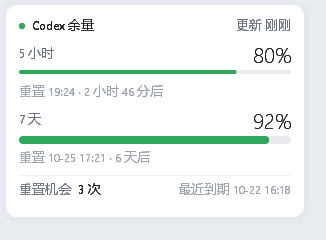
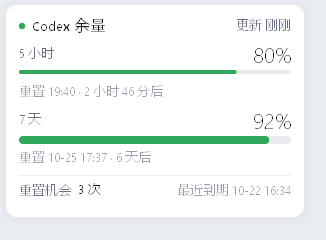
fix: paint text the way a normal Win32 app does
Text used to be drawn white-on-black into a scratch DIB and the brightness
reused as an alpha mask. That flattens every pixel to one coverage value, so
hinting's uneven stems and stair-stepped curves showed through -- the
"over-enlarged bitmap" look.

Now the pixels under a text run are copied into the scratch DIB (un-premultiplied),
GDI composites the glyphs onto them in final colour, and the result is blended
back per channel (per channel, so translucent runs keep their coverage). No
supersampling, no coverage gamma, no mask extraction: what is left is exactly
what GDI does for any other window.

Quality stays grayscale AA. ClearType's coloured edges read as noise on 11-12px
CJK and are destroyed by DPI rescaling of a composited surface.

Sizes nudged so hinting has room: meta 10.5->11.5, label 11.5->12, title 12->12.5,
mini label 9->10, mini value 12/Light->13/Regular.

diff --git a/src/canvas.rs b/src/canvas.rs
@@ -4,13 +4,13 @@
 //! and pushed to a layered window with `UpdateLayeredWindow`. No GDI+ / Direct2D
 //! / WebView, which keeps the binary and the working set small.
 //!
-//! Text is the only thing GDI does: it is drawn white-on-black into a scratch
-//! DIB and turned into an alpha mask, which composites correctly onto the
-//! alpha channel (plain `DrawText` cannot write alpha).
+//! Text is the only thing GDI does, and it does it the ordinary way: the pixels
+//! under a run are copied into a scratch DIB, GDI paints antialiased glyphs onto
+//! them, and the result is blended back (see `Canvas::text`).
 
 use std::ffi::c_void;
 
-use windows_sys::Win32::Foundation::{COLORREF, HWND, POINT, RECT, SIZE};
+use windows_sys::Win32::Foundation::{HWND, POINT, RECT, SIZE};
 use windows_sys::Win32::Graphics::Gdi::{
     CreateCompatibleDC, CreateDIBSection, CreateFontW, DeleteDC, DeleteObject, DrawTextW,
     SelectObject, SetBkMode, SetTextColor, BITMAPINFO, BITMAPINFOHEADER, BI_RGB, BLENDFUNCTION,
@@ -361,6 +361,28 @@ impl Canvas {
 
     // ------------------------------------------------------------ text
 
+    /// One line of text, drawn the way every other Win32 app draws it.
+    ///
+    /// GDI is the ordinary rasteriser (the one Notepad uses), but it only does
+    /// its best work when it can write straight onto the destination pixels:
+    /// hinting snaps stems onto the pixel grid and ClearType adds per-channel
+    /// coverage. So the target region is copied into a scratch DIB, the glyphs
+    /// are composited onto it in final colour, and the pixels are blended back.
+    ///
+    /// Drawing white-on-black and reusing the brightness as an alpha mask — what
+    /// this used to do — flattens each pixel to a single coverage value, which
+    /// throws away the subpixel coverage and leaves exactly the ragged,
+    /// over-enlarged-bitmap look that comes from hinting alone.
+    ///
+    /// The backdrop under a text run must be opaque (both surfaces paint their
+    /// card first), which is what makes the blend back a plain lerp.
+    ///
+    /// ClearType is deliberately *not* used. Subpixel AA pays off when text sits
+    /// on a known, unscaled opaque background; here the surface is composited by
+    /// DWM at whatever scale the display asks for, and 1px CJK strokes at 11-12px
+    /// get coloured edges that read as noise rather than as sharpness. Grayscale
+    /// AA stays even at every size, which is what "smooth" looks like.
+    #[allow(clippy::too_many_arguments)]
     pub fn text(
         &mut self,
         font: &Font,
@@ -375,6 +397,15 @@ impl Canvas {
         if s.is_empty() || w <= 0 || h <= 0 || c.a == 0 {
             return;
         }
+        // clip to the canvas, but keep the logical box so alignment survives
+        let bx = x.max(0);
+        let by = y.max(0);
+        let bw = (x + w).min(self.w) - bx;
+        let bh = (y + h).min(self.h) - by;
+        if bw <= 0 || bh <= 0 {
+            return;
+        }
+
         let utf16: Vec<u16> = s.encode_utf16().collect();
         unsafe {
             let dc: HDC = CreateCompatibleDC(std::ptr::null_mut());
@@ -383,8 +414,8 @@ impl Canvas {
             }
             let mut bi: BITMAPINFO = std::mem::zeroed();
             bi.bmiHeader.biSize = std::mem::size_of::<BITMAPINFOHEADER>() as u32;
-            bi.bmiHeader.biWidth = w;
-            bi.bmiHeader.biHeight = -h;
+            bi.bmiHeader.biWidth = bw;
+            bi.bmiHeader.biHeight = -bh;
             bi.bmiHeader.biPlanes = 1;
             bi.bmiHeader.biBitCount = 32;
             bi.bmiHeader.biCompression = BI_RGB;
@@ -401,16 +432,28 @@ impl Canvas {
                 DeleteDC(dc);
                 return;
             }
+            let px = bits as *mut u32;
+
+            // seed the scratch surface with what is already on screen, in
+            // straight alpha — GDI blends as if the DIB were opaque
+            for row in 0..bh {
+                for col in 0..bw {
+                    let p = self.px[((by + row) * self.w + bx + col) as usize];
+                    *px.add((row * bw + col) as usize) = straight(p);
+                }
+            }
+
             let old_bmp = SelectObject(dc, bmp as _);
             let old_font = SelectObject(dc, font.handle as _);
             SetBkMode(dc, TRANSPARENT as i32);
-            SetTextColor(dc, 0x00FF_FFFF as COLORREF);
+            // COLORREF is 0x00BBGGRR
+            SetTextColor(dc, ((c.b as u32) << 16) | ((c.g as u32) << 8) | c.r as u32);
 
             let mut rc = RECT {
-                left: 0,
-                top: 0,
-                right: w,
-                bottom: h,
+                left: x - bx,
+                top: y - by,
+                right: x - bx + w,
+                bottom: y - by + h,
             };
             let fmt = DT_SINGLELINE
                 | DT_VCENTER
@@ -422,19 +465,23 @@ impl Canvas {
                 };
             DrawTextW(dc, utf16.as_ptr(), utf16.len() as i32, &mut rc, fmt);
 
-            let src = bits as *const u32;
-            let total = (w * h) as usize;
-            for i in 0..total {
-                let v = *src.add(i);
-                // luminance of the white-on-black mask
-                let a = (v & 0xFF).max((v >> 8) & 0xFF).max((v >> 16) & 0xFF);
-                if a == 0 {
-                    continue;
+            // blend back per channel, so translucent text keeps its fringes
+            let t = c.a as f32 / 255.0;
+            for row in 0..bh {
+                for col in 0..bw {
+                    let o = *px.add((row * bw + col) as usize);
+                    if o == 0 {
+                        continue;
+                    }
+                    let di = ((by + row) * self.w + bx + col) as usize;
+                    let d = self.px[di];
+                    let mix = |sh: u32| {
+                        let dv = ((d >> sh) & 0xFF) as f32;
+                        let ov = ((o >> sh) & 0xFF) as f32;
+                        (dv + (ov - dv) * t).round().clamp(0.0, 255.0) as u32
+                    };
+                    self.px[di] = (d & 0xFF00_0000) | (mix(16) << 16) | (mix(8) << 8) | mix(0);
                 }
-                let px = (i as i32 % w) + x;
-                let py = (i as i32 / w) + y;
-                let cov = a as f32 / 255.0 * (c.a as f32 / 255.0);
-                self.blend(px, py, c, cov);
             }
 
             SelectObject(dc, old_font);
@@ -443,6 +490,20 @@ impl Canvas {
             DeleteDC(dc);
         }
     }
+}
+
+/// Premultiplied `0xAARRGGBB` to straight `0x00RRGGBB`.
+#[inline]
+fn straight(p: u32) -> u32 {
+    let a = (p >> 24) & 0xFF;
+    if a == 0 {
+        return 0;
+    }
+    if a == 255 {
+        return p & 0x00FF_FFFF;
+    }
+    let un = |v: u32| ((v * 255 + a / 2) / a).min(255);
+    (un((p >> 16) & 0xFF) << 16) | (un((p >> 8) & 0xFF) << 8) | un(p & 0xFF)
 }
 
 #[derive(Clone, Copy, PartialEq, Eq, Debug)]
@@ -455,7 +516,7 @@ pub enum Align {
 // ---------------------------------------------------------------- font
 
 pub struct Font {
-    pub handle: HFONT,
+    handle: HFONT,
 }
 
 unsafe impl Send for Font {}
@@ -466,14 +527,14 @@ impl Font {
         // ships Regular/Bold — a LOGFONT weight of 300 or 600 therefore snaps
         // back to Regular or Bold. The lighter and semibold cuts live in their
         // own families, so pick the face by name and keep lfWeight neutral.
-        let face = match weight {
+        let name = match weight {
             w if w <= 350 => "Segoe UI Light",
             w if w <= 450 => "Segoe UI",
             w if w < 650 => "Segoe UI Semibold",
             _ => "Segoe UI Bold",
         };
-        let face = crate::sys::wide(face);
-        let h = unsafe {
+        let face = crate::sys::wide(name);
+        let handle = unsafe {
             CreateFontW(
                 -px,
                 0,
@@ -486,12 +547,12 @@ impl Font {
                 1, // DEFAULT_CHARSET, lets GDI fall back to a CJK face
                 0,
                 0,
-                4, // ANTIALIASED_QUALITY: grayscale AA -> clean alpha mask
+                4, // ANTIALIASED_QUALITY: grayscale AA
                 0,
                 face.as_ptr(),
             )
         };
-        Self { handle: h }
+        Self { handle }
     }
 
     /// Pixel width of a string in this font.

diff --git a/src/ui.rs b/src/ui.rs
@@ -296,13 +296,13 @@ impl Fonts {
     pub fn new(scale: f32) -> Self {
         let px = |dp: f32| (dp * scale).round().max(8.0) as i32;
         Self {
-            title: Font::new(px(12.0), 600),
-            label: Font::new(px(11.5), 400),
+            title: Font::new(px(12.5), 600),
+            label: Font::new(px(12.0), 400),
             value: Font::new(px(21.0), 300),
-            meta: Font::new(px(10.5), 400),
-            strong: Font::new(px(11.5), 600),
-            mini_label: Font::new(px(9.0), 600),
-            mini_value: Font::new(px(12.0), 300),
+            meta: Font::new(px(11.5), 400),
+            strong: Font::new(px(12.0), 600),
+            mini_label: Font::new(px(10.0), 600),
+            mini_value: Font::new(px(13.0), 400),
         }
     }
 }

diff --git a/DEVDOC.md b/DEVDOC.md
@@ -17,7 +17,7 @@
 | CPU | 低 | **0.08%** | 一个 250 ms 心跳线程（睡醒多数拍什么都不做）+ 每 30 s 一次重绘 |
 | 部署 | 免安装 | **双击即用** | 单 exe，不写 Program Files，只留一份 `state.json`；开机自启靠 HKCU Run 键，菜单里开关 |
 
-**技术栈**：Rust 2021 + `windows-sys`（纯 FFI 声明）+ `serde_json`。没有任何 UI 框架、没有 WebView、没有 WinRT。界面是一个约 600 行的自绘软件光栅器（`canvas.rs`）画出来的，GDI 只负责把字栅格化成 alpha 蒙版。
+**技术栈**：Rust 2021 + `windows-sys`（纯 FFI 声明）+ `serde_json`。没有任何 UI 框架、没有 WebView、没有 WinRT。界面是一个约 600 行的自绘软件光栅器（`canvas.rs`）画出来的，GDI 只负责把字栅格化到临时 DIB 上。
 
 **数据链**（只读，两个 GET）
 
@@ -55,7 +55,7 @@ GET chatgpt.com/backend-api/wham/rate-limit-reset-credits → 每个机会的 id
 ```
 Canvas（Vec<u32>，预乘 BGRA）
   → 圆角矩形 / 圆环 / 阴影 / 进度条 / 三角形：全用 SDF 或 3×3 超采样求覆盖率
-  → 文字：GDI 白字黑底 DIB → 取 max(r,g,b) 当 alpha → 手工合成（DrawTextW 写不进 alpha 通道）
+  → 文字：目标像素拷进临时 DIB → GDI 用最终颜色就地压字 → 逐通道 lerp 回写（DrawTextW 写不进 alpha 通道）
 Surface（CreateDIBSection）→ UpdateLayeredWindow(ULW_ALPHA) → WS_EX_LAYERED 窗口
 ```
 
@@ -77,16 +77,16 @@ main ─→ app ─→ ui ─→ canvas
 | 文件 | 行 | 职责 |
 | --- | --- | --- |
 | `app.rs` | 726 | 三个窗口过程、显隐与定位、菜单、托盘状态刷新 |
-| `ui.rs` | 714 | 主题、沙漏标、面板 / 小窗绘制、命中测试、全部度量常量 |
-| `canvas.rs` | 626 | 软件光栅器、字体 alpha 蒙版、分层窗口 surface |
+| `ui.rs` | 751 | 主题、沙漏标、面板 / 小窗绘制、命中测试、全部度量常量 |
+| `canvas.rs` | 697 | 软件光栅器、文字就地绘制、分层窗口 surface |
 | `poller.rs` | 515 | 轮询节奏、通知状态机、`Snapshot → View` 投影 |
 | `api.rs` | 494 | 凭证读取、WinHTTP、JSON → `Snapshot` |
 | `sys.rs` | 419 | Win32 薄封装（窗口、进程、注册表、时间、DPR、内存） |
-| `dev.rs` | 213 | 设计期命令：`--render` / `--icon` |
+| `dev.rs` | 284 | 设计期命令：`--render` / `--icon` / `--svg` |
 | `tray.rs` | 177 | 托盘图标、提示条、右键菜单、气泡通知 |
 | `config.rs` | 147 | `state.json` 读写 + `Mark` 类型 |
 | `fmt.rs` | 113 | 百分比 / 时长 / 本地时间格式化 |
-| `main.rs` | 62 | 入口、单实例互斥、DPI、CLI |
+| `main.rs` | 72 | 入口、单实例互斥、DPI、CLI |
 
 **建议的阅读顺序**：`poller.rs`（数据怎么变成 View）→ `ui.rs` 的 `paint_popover`（View 怎么变成像素）→ `app.rs` 的 `run()` 与三个 `wndproc`（它们怎么被串起来）→ `canvas.rs`（像素怎么算的）→ `api.rs`（数据从哪来）。
 
@@ -108,7 +108,7 @@ main ─→ app ─→ ui ─→ canvas
 因此：
 
 - **只用 Win32**，不引入任何 UI 框架。依赖只有 `windows-sys`（FFI 声明，不含逻辑）和 `serde_json`（解析 JSON）。
-- **界面全部自绘**：一个约 600 行的软件光栅器（`canvas.rs`）+ GDI 只负责文字栅格化。理由见 §9——GDI 的 `DrawText` 写不进 alpha 通道，而分层窗口必须要 alpha；与其叠三层折衷，不如自己控像素。
+- **界面全部自绘**：一个约 700 行的软件光栅器（`canvas.rs`）+ GDI 只负责把字栅格化。理由见 §9——`DrawText` 写不进 alpha 通道，而分层窗口必须要 alpha；所以文字走「拷进临时 DIB → GDI 就地压字 → 混合回写」，其余形状自己控像素。
 - **图标运行时生成**：托盘图标＝一个分成两半的沙漏，颜色随两档余量走，所以必须能在运行时换色；用同一套 `draw_mark()` 既画托盘图标（`CreateIconIndirect`），也画 `assets/icon.ico`（`--icon` 命令），两者永不漂移。
 - **通知用托盘气泡**（`Shell_NotifyIcon` + `NIF_INFO`）：Win10/11 会把它渲染成标准 Toast 并进入通知中心，但不需要注册 AUMID、不需要快捷方式、不需要 WinRT——省掉一整套打包机制。
 - **不做安装模式**：单文件就是交付形态。开机自启只是 HKCU Run 下的一个键，右键菜单里勾一下就写，取消就删，比"安装"更透明也更好卸载。
@@ -373,13 +373,13 @@ poller 每拍检查，条件是三个都成立才触发：
 | 区块 | 度量 | 字体 / 颜色 |
 | --- | --- | --- |
 | 卡片 | 300dp 宽，圆角 12，左右内边距 14，窗口四周另留 13dp 阴影边距 | 底 `#FFFFFF` / `#1B1E23`，1px 描边 |
-| 头部 | y=13，高 18；左侧状态点直径 6.4dp | 标题 12dp/600；右侧状态 10.5dp/400 灰 |
-| 行 | 首行 y=41，行高 56，行间距 10 | 标签 11.5dp/400 灰；数值 21dp/**Light**（字号拉开层级，字重不加粗） |
+| 头部 | y=13，高 18；左侧状态点直径 6.4dp | 标题 12.5dp/600；右侧状态 11.5dp/400 灰 |
+| 行 | 首行 y=41，行高 56，行间距 10 | 标签 12dp/400 灰；重置说明 11.5dp/400；数值 21dp/**Light**（字号拉开层级，字重不加粗） |
 | 进度条 | y = 行首 + 25，宽 = 300 − 28，两端全圆角 | 轨道 `#E8EAEE` / `#2E333A`，填充按 `severity()` |
 | 进度条厚度 | 5 小时 = **4dp**，7 天 = **8dp**（`bar_height(limit_secs)`：`≥ 86400 s` 走粗条） | 一粗一细，两行不用读标签也能区分 |
 | 重置行 | y = 行首 + 39（`ROW_H − 17`，两行文字共用同一基线节奏） | 10.5dp/400，`#9AA1AC` / `#6E7683` |
 | 分隔线 | 1px，距上下各 8dp | `#EDEFF2` / `#2B2F36` |
-| 底部 | 高 30 | 左「重置机会」10.5dp/400 + 次数 11.5dp/600；右侧 10.5dp/400 |
+| 底部 | 高 30 | 左「重置机会」11.5dp/400 + 次数 12dp/600；右侧 11.5dp/400 |
 | 阴影 | SDF 距离场三次方衰减，spread 13dp | 亮 `rgba(20,24,32,0.17)`，暗 `rgba(0,0,0,0.35)` |
 
 高度公式：`41 + n×56 + (n−1)×10 + 8 + 1 + 30 + 12`，两行 = 214dp（窗口 214 + 上下阴影 26 = 240dp）。
@@ -397,7 +397,7 @@ poller 每拍检查，条件是三个都成立才触发：
 
 - 行 y 坐标：11 / 30；进度条以行内文字中线为轴居中，几何 `x ∈ [34, 112]`，两端全圆角；数值右对齐到 `147`
 - 厚度与面板同源：`mini_bar_height()` 给出 3dp / 6dp（同样是 2 倍关系）
-- 字体：标签 9dp/Semibold 灰，数值 12dp/Light（低于 40% 才染色）
+- 字体：标签 10dp/Semibold 灰，数值 13dp/400（低于 40% 才染色）
 - 默认落点：工作区右下角内缩 14dp；拖动后位置写入 `state.json.mini_pos`，按所在显示器工作区夹取
 - 拖动判定：位移 > 3px 才算拖动，否则算点击
 
@@ -422,7 +422,7 @@ Canvas（Vec<u32>，预乘 BGRA）
   ├─ round_rect / ring_round / shadow  → 圆角矩形 SDF，coverage = clamp(0.5-d, 0, 1)
   ├─ polygon                           → 3×3 超采样的奇偶规则扫描线填充（沙漏两半的轮廓）
   ├─ bar / circle                      → 组合上面的原语
-  └─ text                              → GDI 白字黑底 DIB → 亮度当 alpha → 手工合成
+  └─ text                              → 目标像素拷进临时 DIB → GDI 就地压字 → 逐通道混合回写
         ↓
   Surface（CreateDIBSection，窗口大小的持久 DIB）
         ↓  memcpy + UpdateLayeredWindow(ULW_ALPHA, AC_SRC_OVER/AC_SRC_ALPHA)
@@ -432,8 +432,9 @@ Canvas（Vec<u32>，预乘 BGRA）
 三个实现要点：
 
 1. **预乘 alpha**：所有混合都是 `dst = src·a + dst·(1-a)`，边界正确、可叠加，`UpdateLayeredWindow` 也正好要预乘数据。
-2. **文字 alpha**：GDI 的 `DrawTextW` 只写 RGB、不写 alpha，直接画到 ARGB 位图上会得到透明字。做法是把字画成"白字黑底"的临时 DIB，取 `max(r,g,b)` 当覆盖率，再用这个覆盖率把目标色合成进 Canvas。字体用 `ANTIALIASED_QUALITY`（灰度抗锯齿）而不是 ClearType，避免彩色子像素污染覆盖率。一次绘制约 10 段文字，临时 DIB 即用即删，代价可忽略。
-3. **DPI**：`SetProcessDpiAwarenessContext(PER_MONITOR_AWARE_V2)`，所有度量都是 dp × `scale`（`GetDpiForWindow / 96`），字号按缩放后像素值创建。
+2. **文字的渲染路径**：GDI 的 `DrawTextW` 只写 RGB、不写 alpha，直接画到 ARGB 位图上会得到透明字；而"白字黑底取亮度当蒙版"会丢掉 hinting 之外的一切，小字看起来像放大过头的位图。现在的做法是**让 GDI 直接往目标像素上画**：把文字框内的 Canvas 像素（反预乘成直通 alpha）拷进临时 DIB，用最终颜色 `SetTextColor` 画上去，再按 `c.a` 做逐通道 lerp 写回。逐通道而非统一 alpha，是为了让半透明文字也保留 GDI 的次像素覆盖。前提是文字底下必须不透明（两个界面都先铺卡片），这也是回写能是一次简单 lerp 的原因。
+3. **为什么不用 ClearType**：子像素抗锯齿的前提是"背景已知、像素不被二次缩放"。这里表面由 DWM 按显示缩放合成，11–12px 的汉字只有 1px 笔画，彩色边缘读起来是噪点而不是锐度；实测（见 `target/v-ct` vs `target/v-aa` 的对照）灰度抗锯齿在每个字号上都更均匀。所以字体质量是 `ANTIALIASED_QUALITY`。
+4. **DPI**：`SetProcessDpiAwarenessContext(PER_MONITOR_AWARE_V2)`，所有度量都是 dp × `scale`（`GetDpiForWindow / 96`），字号按缩放后像素值创建。字体族必须按名字选（`Segoe UI Light` / `Semibold`），因为 GDI 的 `lfWeight` 只在族内匹配，300/600 会退化成 Regular/Bold。
 
 命中测试用同一套 dp 常量（`ui::hit_test`），所以视觉与点击区域不会错位；动过布局常量只需改一处。
 
